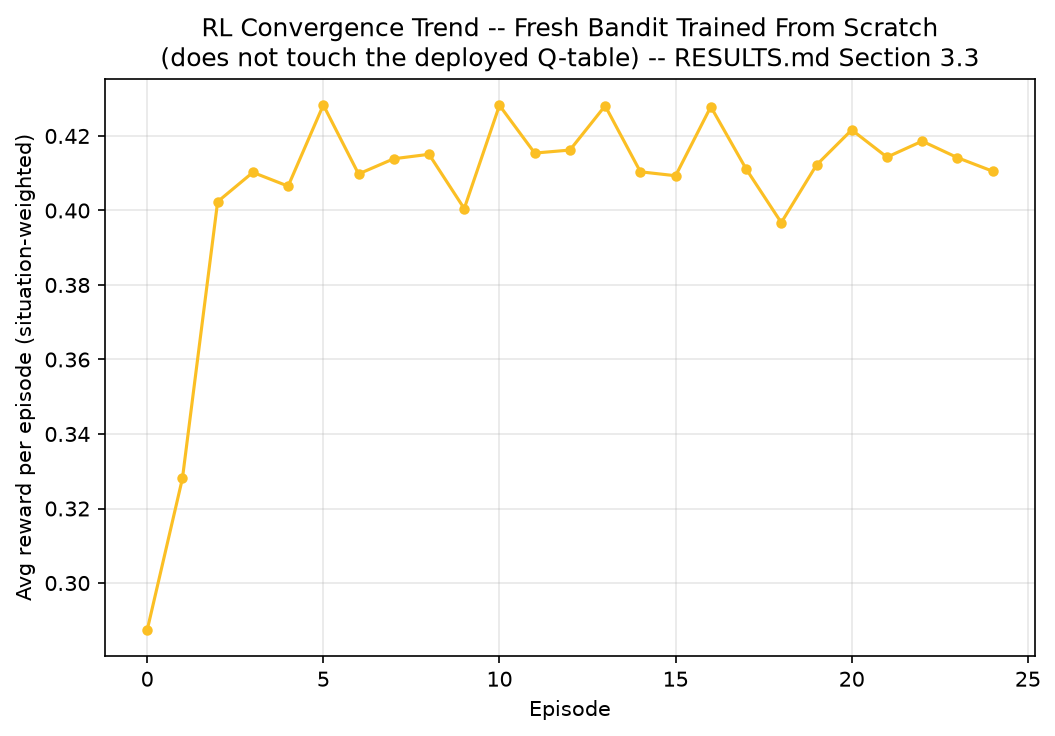
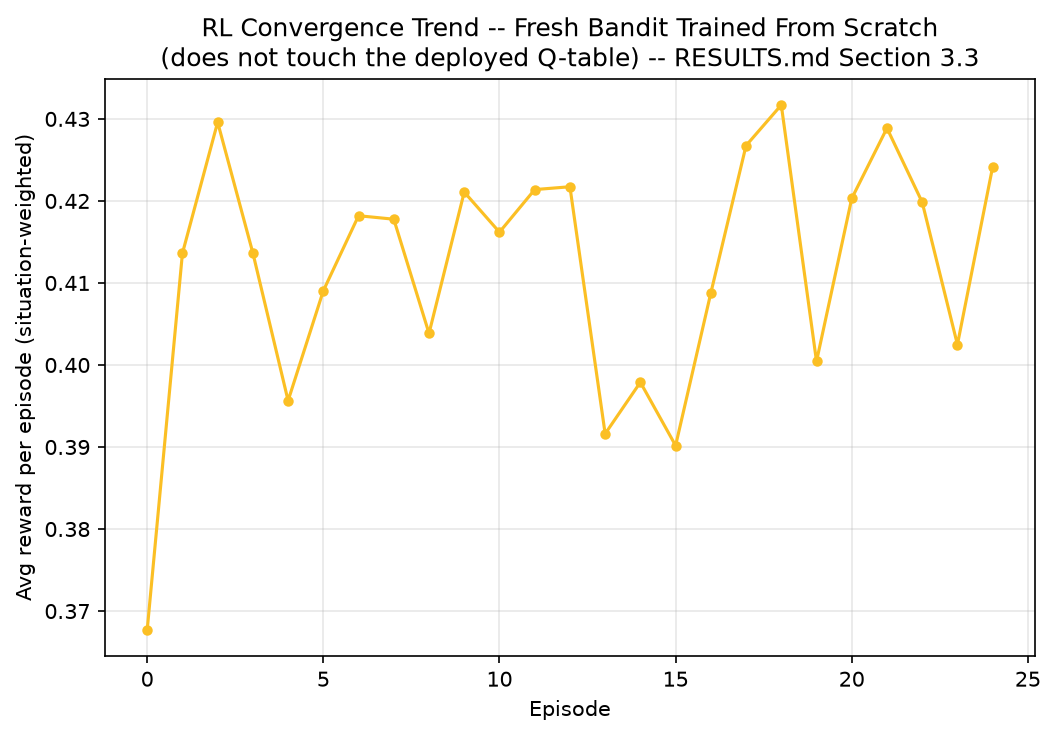
Sweep remaining docs for claims the code no longer matches
Finishes the documentation pass across the files not touched in the last
two commits. These were not cosmetic edits -- several described behaviour
that is now the opposite of what the code does, which is worse than no
comment at all for anyone reading next.

src/gateway.py's Module 9 block opened with "**Read this before assuming
every pixel on the page is live**" and then explained that the served file
is a 2.2MB flattened canvas export with hardcoded stale device names
(vibration-001, mpu6050-001) and only an injected overlay bar carrying
real data. Every part of that is now false: the page is fully live, the
export is deleted, and the overlay constant is gone. Rewritten to describe
what is actually served, keeping the history as history (it explains other
comments elsewhere) and adding the two things that are load-bearing if you
change this server -- the ThreadingHTTPServer is deliberate, and the read
caches are what keep /api/chain affordable as the audit log grows.

docs/04 gains AS-BUILT notes on the two sub-signals whose behaviour
changed. B.3 (Isolation Forest) previously said only "rescaled to [0,1]",
and how that rescaling is done turned out to be the single most
consequential detail in Module 3 -- the note records the measured failure
(a perfectly normal reading could score at most 0.621 against a 0.6
threshold), the two normal-class-only anchors that fix it, and that the
class separation was always fine so only the mapping was wrong. B.5 (GNN)
[…]

diff --git a/src/gateway.py b/src/gateway.py
@@ -447,21 +447,25 @@ def on_message(client, userdata, msg):
 # background-thread pattern coap_server.py's second transport already
 # uses (see start_dashboard_server() / run() below).
 #
-# **Read this before assuming every pixel on the page is live.** The
-# served file is a 2.2MB bundled EXPORT of a Claude Design canvas -- the
-# Design tool's own runtime/renderer bundled together with a flattened
-# snapshot of whatever the canvas showed at export time. The exported
-# bundle's device names are hardcoded, stale TEXT (`vibration-001`,
-# `mpu6050-001`), not live bindings -- they predate the current
-# `esp32-vib-001`/`sensor-002`/`actuator-001` hybrid device registry
-# entirely. There is no reactivity left to reconnect; the export
-# flattened it away. This code does NOT attempt to surgically patch
-# values inside the 2.2MB minified bundle (high risk of silently breaking
-# it). Instead it serves the real file byte-for-byte AS THE VISUAL SHELL,
-# and injects one clearly-labelled, genuinely-live overlay bar at the top
-# of the page, polling the real `/api/*` endpoints below. The overlay is
-# the authoritative live view; the canvas beneath it is the original
-# design artifact kept intact, not a live-updating element.
+# The page is FULLY LIVE. It renders itself from the /api/* endpoints below,
+# polling every 2s, so there is no injection step and no static shell: device
+# cards, decision stream, NIST coverage and its validation, IEC FR status, the
+# RL policy table and audit-chain integrity are all read from this gateway.
+#
+# It did not start that way, and the history matters if you are reading old
+# comments elsewhere: the served file used to be a 2.2MB flattened export of a
+# Claude Design canvas whose device names were hardcoded, stale text
+# (`vibration-001`, `mpu6050-001`) predating the current registry entirely, with
+# one genuinely-live overlay bar spliced in above it. That export has been
+# deleted and replaced outright by the hand-written live page; the canvas SOURCE
+# it was exported from survives in design/canvas.json and design/Main.dc.html.
+#
+# Two things worth knowing before changing this server:
+#   - It is a ThreadingHTTPServer, and that is load-bearing rather than
+#     incidental -- see start_dashboard_server() for the measured saturation
+#     failure a single-threaded one caused.
+#   - The read caches below are what keep /api/chain affordable; its cost grows
+#     with every logged decision, since it re-verifies the whole hash chain.
 # =============================================================================
 
 DASHBOARD_DESIGN_HTML_PATH = os.path.join(
@@ -726,8 +730,7 @@ class DashboardHandler(BaseHTTPRequestHandler):
     def _serve_figures_gallery(self) -> None:
         """Serves a small, self-contained HTML gallery of every PNG in
         docs/figures/ (scripts/generate_evaluation_graphs.py's output),
-        linked from the live overlay bar rather than spliced into the
-        canvas, for the same "don't touch the 2.2MB bundle" reason."""
+        linked from the dashboard header."""
         if not os.path.isdir(DASHBOARD_FIGURES_DIR):
             names = []
         else:

diff --git a/RESULTS.md b/RESULTS.md
@@ -258,7 +258,7 @@ log — not inferred from code review:
 | Hash chain detects a naive edit to an old audit row | Manually edited one row's `decision`, re-ran `verify_chain_integrity()` | **Confirmed** — `(False, <row id>)` |
 | Hash chain alone is fooled by a sophisticated edit (edit + recompute every subsequent hash) | Manually recomputed the whole chain after an edit | **Confirmed** (expected, documents the known limit) — `verify_chain_integrity()` incorrectly reports `(True, None)` |
 | The separate checkpoint catches the sophisticated edit the chain check misses | Compared the recomputed chain against the independently-stored checkpoint | **Confirmed** — mismatch correctly detected |
-| Live dashboard reads real data | `design/zero-trust-cps-command-center.html`, served with a live overlay by `gateway.py` itself (`gateway.py`'s Module 9 extension section, no separate script) | **Confirmed** — tested end to end against real hardware telemetry (Section 13): main page, all `/api/*` endpoints, and `/figures` gallery all verified working |
+| Live dashboard reads real data | `design/zero-trust-cps-command-center.html`, a single fully-live page served by `gateway.py` itself and polling its `/api/*` endpoints (`gateway.py`'s Module 9 extension section, no separate script) | **Confirmed** — tested end to end against real hardware telemetry (Section 13): main page, all `/api/*` endpoints, and `/figures` gallery all verified working |
 | A rate anomaly from a REAL physical device (not the simulator) triggers a real BLOCK | The real `esp32-vib-001` board itself, live | **Confirmed** — `rms=1.02 FLOOD \| security=0.49 \| process=0.40(FRESH) \| BLOCK` with `FLOOD detected (messages arriving faster than the minimum interval)`. Previously this exact response was only ever confirmed with `device_simulator.py`'s synthetic flood scenario (row above) — this is the first live confirmation against genuine hardware. Note this is a Security Trust (rate/timing) event, distinct from Section 13.2's still-pending Process Anomaly (physical fault) adversarial testing — the two domains stay separately evidenced on purpose. |
 | A real physical sensor fault (MPU6050 disconnected) is caught by the fusion pipeline even though the rule check alone misses it | Disconnected/reconnected the real MPU6050 while the board was running | **Confirmed, and a real gap found + fixed** — the disconnected sensor read back all-zero I2C bytes rather than erroring, publishing physically-impossible `rms=peak=crest_factor=kurtosis=0.0`; the rule check's old `(0.0, 3.0)` `rms` bound missed it, but replaying the exact reading through the live scorers gave `fused=0.008` (well below threshold) — the GNN/Isolation Forest caught what the rule check didn't, confirming the fusion design's defense-in-depth. `rms`'s lower bound raised to `0.1` anyway (Section 13.2), verified not to regress the synthetic baseline or reject any real session's data. |
 | A fully unpowered sensor (VCC removed) is correctly diagnosed and auto-recovered, not misdiagnosed as a network error | Removed the real MPU6050's VCC entirely, then reconnected it | **Confirmed, and a real firmware bug found + fixed + re-verified** — a fully unpowered sensor raises a real `OSError`/`ETIMEDOUT` from the I2C read (unlike the zero-byte case above); the firmware's single shared exception handler misdiagnosed this as a network problem, reconnecting MQTT (never broken) in an infinite loop that never addressed the real issue. Fixed with a separate I2C-specific handler that re-initializes the sensor and skips to the next cycle without touching MQTT. Re-verified live after the fix: 3 correctly-labelled `MPU6050 read failed` messages, then fully automatic recovery (same `boot_id`, no reset) — plus the first two post-recovery readings, still zero as the sensor stabilized, now correctly caught by the `rms≥0.1` rule bound from the fix above. |
@@ -1336,7 +1336,7 @@ actually implemented/explained and verified.
 | # | Limitation | Solvable? | Resolution |
 |---|---|---|---|
 | ~~1~~ | ~~Key rotation / device revocation not implemented~~ **RESOLVED — implemented** | — | `trust_engine.py` gained `revoke_device()`/`reinstate_device()`/`rotate_key()`/`is_revoked()`, operating directly on `DEVICE_REGISTRY` (additive fields: `status`, `key_version`, `secret_previous`, `key_rotated_at` — `config.py`). `gateway.py` rejects a revoked device unconditionally, BEFORE HMAC (`process_telemetry()`'s new `is_revoked()` check); `verify_signature()` tries the current key first, falling back to `secret_previous` only within `KEY_ROTATION_GRACE_SECONDS` of the last rotation. Verified end to end, not just unit-level: revoke→reject, reinstate→accept again, rotate→old key still verifies inside the grace window, wrong key never verifies, old key correctly stops verifying once the grace window is manually aged past (7 checks, all passed) — plus a live `process_telemetry()` call against a revoked device, confirmed logged as `REJECTED (device_revoked)`. |
-| ~~2~~ | ~~Level-2 (feature-level) explainability not implemented as a separate function~~ **RESOLVED — already implemented, table was stale** | — | `level2_explain()` is a real, dedicated function on every scorer (`gnn_scorer.py`, `isolation_forest_scorer.py`, `lstm_ae_scorer.py`, `transformer_scorer.py`), orchestrated by `src/explainability.py`, populated on every authenticated message, and surfaced live in the dashboard's second overlay bar — verified directly against real hardware telemetry this session (and one real bug in it, the GNN's fake neighbor attribution with no active neighbors, found and fixed; Section 13.0). |
+| ~~2~~ | ~~Level-2 (feature-level) explainability not implemented as a separate function~~ **RESOLVED — already implemented, table was stale** | — | `level2_explain()` is a real, dedicated function on every scorer (`gnn_scorer.py`, `isolation_forest_scorer.py`, `lstm_ae_scorer.py`, `transformer_scorer.py`), orchestrated by `src/explainability.py`, populated on every authenticated message, and surfaced live on the dashboard's device cards — verified directly against real hardware telemetry this session (and one real bug in it, the GNN's fake neighbor attribution with no active neighbors, found and fixed; Section 13.0). |
 | ~~3~~ | ~~Decision-channel replay~~ **RESOLVED — implemented** | — | Same `boot_id`/`seq` pattern telemetry replay already used, applied to the gateway's outgoing decisions: `gateway.py` persists its own incrementing `gateway_boot_id` (`data/gateway_boot_id.txt`, same pattern as the device's `boot_id.txt`) and a per-device `decision_seq` counter, both signed into every decision payload. `firmware/main.py`'s `check_decision_replay()` mirrors `check_boot_replay()`'s logic (strictly-higher boot_id always wins; same boot_id needs a strictly-higher seq). Canonical-string construction now reuses `canonical_json()` (the same generic builder telemetry uses) instead of a hand-rolled format string, specifically to avoid a repeat of the earlier telemetry canonicalisation risk — verified byte-for-byte identical to the gateway's `json.dumps(payload, sort_keys=True)` output, and the full HMAC signature verified to match end to end. |
 | 4 | **Stealthy compromised devices reporting plausible in-range forged values** | **Not solvable by a better model — architecturally capped** | If a forged value sits inside the learned-normal range, no telemetry-only detector can distinguish it from a real reading — confirmed directly, not just argued: Section 2.2's Transformer sub-signal, genuinely more capable and fairly evaluated, scores this scenario identically to the LSTM-AE (0.606/0.500/0.667 recall figures across Sections 2.1, 3.2, 11 — unmoved by architecture). The only real fixes are outside single-node ML: a second, independently-trusted sensor for cross-validation, or multi-device correlation (the GNN's multi-node mode, `docs/04_module3_trust_evaluation.md` Section B.5 — not yet meaningfully exercised with fewer than 3 physical devices). This project reports the honest, partial recall rather than a number tuned to look better, per Section 11. |
 | ~~5~~ | ~~Unexplained Process-score movement on `high_rate`~~ **RESOLVED — explained, not a real gap** | — | Root-caused, not fixed, because there was nothing live to fix: `scripts/diagnose_high_rate_leak.py` traced it to synthetic-generator scheduling (`anomalous_shock`/`tick%12==7` and `high_rate`/`tick%18==11` deterministically landing 4 messages apart, inside the LSTM's 8-message window) — the same window-residue effect Section 9 already documents elsewhere, not a live rate→process leak. Full trace in Section 7. |

diff --git a/docs/04_module3_trust_evaluation.md b/docs/04_module3_trust_evaluation.md
@@ -179,6 +179,33 @@ rule_based_score(features, expected_range: dict from device registry) -> float i
 - **Cold start:** until a device has enough baseline messages to train on (configurable minimum, e.g. 500 messages), this sub-signal returns a neutral `0.5` and is excluded from the fusion meta-learner's training data for that period — do not let an untrained model contribute noise to early scoring.
 - **Retraining:** retrain on a schedule (e.g., every 10,000 new messages, or nightly in hardware-time) using an expanding or sliding window of recent normal data, so the model can adapt to slow legitimate drift.
 
+> **AS-BUILT NOTE (scoring scale — this was a real defect, now fixed):**
+> the design line above says only "rescaled to `[0, 1]`", and *how* that
+> rescaling is done turned out to matter enormously. The as-built scale is
+> trust-style (**1 = normal**, the project-wide inversion flagged in
+> `docs/00_overview.md`), and the original mapping was simply
+> `decision_function() + 0.5`. That assumed `decision_function` spans
+> `[-0.5, 0.5]`. It does not: with `contamination=0.1` sklearn defines it so
+> exactly 10% of the *training* data falls below `0.0`, and its inlier side is
+> compressed into a narrow positive band — measured on this model, normal
+> median `+0.079` and best case `+0.121`. So the best score a **perfectly
+> normal** reading could receive was **0.621**, with the median normal at
+> **0.579** — both under `config.PROCESS_THRESHOLD` (0.6). The sub-signal was
+> structurally incapable of reporting "normal", and dragged the fused score
+> below threshold on healthy telemetry, including the real ESP32 at rest.
+>
+> The as-built mapping anchors on two points taken from the **normal class
+> only**, so training stays unsupervised (no anomalous example is consulted to
+> calibrate): `raw = 0 → 0.5` (sklearn's own inlier/outlier boundary, so the
+> model's decision boundary becomes the neutral midpoint) and
+> `raw = median(normal) → 0.9` (this codebase's "looks normal" convention).
+> Linear in between, clipped, and monotonic — it reorders nothing, it only
+> rescales a signal that had been squeezed into an unusable range. The anchor
+> is measured at training time and saved to
+> `models/isolation_forest_<device>_meta.json`. Class separation was always
+> excellent (`anomalous_shock` median `-0.353`); only the mapping was wrong.
+> See `RESULTS.md` §0.1.
+
 ### B.4 Sub-Signal 3 — LSTM-Autoencoder
 
 - **Library:** PyTorch.
@@ -196,6 +223,40 @@ rule_based_score(features, expected_range: dict from device registry) -> float i
 - **Fallback graph construction (single-node):** if only one device exists, build a graph from the six MPU6050 channels themselves — each channel is a node, edges represent expected correlation between channels (e.g., accel_x–accel_y, accel_z–gyro_z if the mounting orientation makes that physically meaningful), and node features are that channel's recent statistics. State explicitly in code comments that this is the weaker fallback case, not the target design.
 - **Library:** PyTorch Geometric. A small 2-layer GCN or GraphSAGE model is sufficient — this is not a case that needs a large model.
 - **The keep/drop decision:** after training, compare this sub-signal's contribution on the *validation* split against the three-signal combination (rule + Isolation Forest + LSTM-AE) using the ablation methodology in `10_testing_and_attack_simulation.md`. If it does not measurably improve F1-score or recall on the validation set, **do not include it in the live fusion meta-learner.** Record the comparison numbers regardless of outcome — a documented "we tried it, it did not help, here is the evidence" is a valid and expected result, not a failure.
+
+> **AS-BUILT NOTE (graph construction):** the as-built graph is the
+> multi-node device graph above (3 devices), not the single-node channel
+> fallback, and it is a hand-rolled GCN in plain PyTorch rather than PyTorch
+> Geometric — see `src/gnn_scorer.py` for why (compiled extensions are
+> version-locked and a common broken install, for identical math on a 3-node
+> graph). The keep/drop decision came out **keep**, decisively: the GNN is the
+> only sub-signal that detects the `coordinated` event type at all (recall
+> **1.000**, against 0.316 for Isolation Forest and 0.222 for the LSTM-AE,
+> which are structurally blind to cross-device co-occurrence).
+>
+> Two as-built corrections to the adjacency, both found by measurement:
+>
+> 1. **Self-loop weight.** With the textbook `A + I` and three active nodes,
+>    symmetric normalisation gives a node's own evidence only 1/3 of its
+>    representation, so *neighbours* dominated its verdict. One identical ESP32
+>    reading scored fused **0.020 / 0.057 / 0.577** depending only on how many
+>    unrelated devices happened to be publishing inside the edge window.
+>    `config.GNN_SELF_LOOP_WEIGHT = 3.0` (`A + 3I`) makes self-weight 0.6
+>    against 0.2 per neighbour, keeping the relational term the sub-signal
+>    exists for while letting a device's own physics decide the majority of its
+>    own verdict.
+> 2. **Isolated-topology training coverage.** A device publishing with no
+>    active neighbour is the *normal* single-device deployment, not an edge
+>    case. That topology originally appeared in training only as merged
+>    real-hardware rows, which are all labelled normal — so the model learned
+>    "no neighbours ⇒ normal" and saturated to **1.000** on a genuinely shaken
+>    board (`rms = 2.5`, IF `0.00`, LSTM `0.40`), masking a real anomaly.
+>    `scripts/train_gnn.py` now emits the isolated variant of every snapshot,
+>    covering that topology with the same class balance.
+>
+> `normalized_adjacency()` is shared by training and inference deliberately —
+> changing it without retraining silently invalidates the model. See
+> `RESULTS.md` §0.2.
 
 ### B.5b Sub-Signal 5 — Transformer (Ablation Candidate, Not in the Original Design)
 

diff --git a/docs/06_module5_access_control.md b/docs/06_module5_access_control.md
@@ -146,12 +146,32 @@ Epsilon-greedy bandit sketch:
   is a valid, useful finding.
 ```
 
+### Q-value estimator: incremental sample average, not a fixed learning rate
+
+`AdaptivePDP.update()` uses `α = 1/N` for the N-th visit to a given
+`(state, action)` pair — the textbook incremental sample average — rather than a
+fixed-α exponential moving average.
+
+This is not a stylistic choice. A single state bucket holds a **mixture** of
+ground-truth situations (the same `(security, process)` bucket is reached by
+genuinely normal messages and by attack messages alike), so `Q(s,a)` is
+estimating an *expectation over that mixture*, and the target is stationary. A
+fixed `α = 0.2` EMA tracks only the last ~5 visits, which leaves the stored
+value dominated by visit **order** rather than by the mixture's mean. Measured
+on the previously-trained table: every action in the high-security/high-process
+states sat within 0.4 of every other (state `9,8`: `BLOCK -0.3` vs
+`ALLOW -0.7`), so `argmax` was effectively arbitrary — and the deployed policy
+answered `BLOCK` for a device at security `0.91`, process `0.87`, where the
+static table correctly answers `ALLOW`. A sample average converges to the true
+expected reward, which is what a greedy `argmax` needs to mean anything. See
+`RESULTS.md` §0.3.
+
 ## 4.1 Failure Modes (RL Policy)
 
 | Scenario | Static table (Section 2) | RL policy (Section 4, live default) |
 |---|---|---|
 | Both scores exactly at a threshold/bucket boundary | Deterministic, always the same decision | Depends on the trained Q-values for that bucket — a decision may differ from the static table's for a borderline state; log these distinctly for evaluation since the RL policy is meant to have learned a genuinely different, better boundary here, not to be arbitrary |
-| A `(security_bucket, process_bucket)` state that was rare or absent in training | N/A | Q-values for that state are unreliable (few or no updates ever touched it) — `situation_weights()`'s inverse-frequency weighting (Section 4 above) mitigates but does not eliminate this; worth checking which states are sparsely covered before trusting the policy's behaviour there |
+| A `(security_bucket, process_bucket)` state that was rare or ABSENT in training | N/A | **Absent is safe, rare is the real risk — they are different cases.** For a state never visited at all, `AdaptivePDP._get_q()` SEEDS the state from the static 2×2 table (`policy_engine.decide()`), giving the static-correct action 1.0 and the rest 0.0, so `greedy_action()` returns exactly what the static policy would. It does not pick arbitrarily by dictionary order, and it does not fail open — verified: at `security 0.05–0.55` with `process 0.95` both policies return `STEP_UP`. The live dashboard's RL panel labels these rows `static fallback` and shows `--` rather than a misleading `0.00`. A state visited only a FEW times is the genuinely unreliable case, since its sample average is estimated from too few visits; `situation_weights()`'s inverse-frequency weighting mitigates but does not eliminate it, so check which states are sparsely covered before trusting behaviour there. |
 | Live reward signal | N/A | Not a live concern by construction — `greedy_action()` is the only method the live gateway calls, and it never updates online (Section 4 above) |
 
 ## 5. Interface Contract

diff --git a/docs/13_system_architecture_and_workflow.md b/docs/13_system_architecture_and_workflow.md
@@ -40,7 +40,7 @@ flowchart TB
     end
 
     subgraph L5["Layer 5 — Observability (Phase 9, merged into gateway.py)"]
-        V1["Live dashboard<br/>design/zero-trust-cps-command-center.html<br/>+ live overlay, :8600"]
+        V1["Live dashboard<br/>design/zero-trust-cps-command-center.html<br/>fully live, polls /api/*, :8600"]
     end
 
     D1 & D2 & D3 -->|signed telemetry| T1
@@ -83,7 +83,7 @@ MQTT, the HTTPS second transport, and the dashboard together
 | 5 — Access Control | Static 2x2 table, or RL bandit reading the same 2D state | `src/policy_engine.py`, `src/adaptive_pdp.py` |
 | 6 — Secure Communication | MQTT/TLS, HTTPS (CoAP-shaped) | `src/device_simulator.py`, `src/coap_server.py`, `firmware/main.py` |
 | 7 — Monitoring & Audit | Hash-chained log, governance tenet mapping | `src/audit_log.py`, `src/nist_mapping.py`, `src/iec62443_mapping.py` |
-| 9 — Observability (extension) | Live dashboard (`design/zero-trust-cps-command-center.html` + a real live-data overlay), served by `gateway.py` itself on a background thread, no separate script | `src/gateway.py` (Module 9 extension section), `src/audit_log.py`, `src/nist_mapping.py`, `src/iec62443_mapping.py` |
+| 9 — Observability (extension) | Live dashboard (`design/zero-trust-cps-command-center.html`, a single fully-live page that polls the `/api/*` endpoints itself), served by `gateway.py` on a background thread, no separate script | `src/gateway.py` (Module 9 extension section), `src/audit_log.py`, `src/nist_mapping.py`, `src/iec62443_mapping.py` |
 
 ---
 
@@ -238,9 +238,13 @@ flowchart LR
     CKPT -.->|independent tamper check| DASH
 ```
 
-`design/zero-trust-cps-command-center.html` is served by DASH above with
-a live-data overlay spliced in (not a separate script — merged into
-`gateway.py` directly; `SESSION_LOG.md` §29/§30).
+`design/zero-trust-cps-command-center.html` is served by DASH above as a
+single fully-live page that polls the `/api/*` endpoints itself (not a
+separate script — merged into `gateway.py` directly; `SESSION_LOG.md`
+§29/§30). There is no overlay-injection step any more: the earlier 2.2MB
+flattened canvas export it used to be spliced into has been deleted, and
+the canvas *source* survives in `design/canvas.json` /
+`design/Main.dc.html` if it ever needs regenerating.
 
 **Why `firmware/main.py` and `device_simulator.py` are drawn as
 alternatives, not both-always-on**: both publish under the SAME
@@ -306,7 +310,7 @@ zt-cps-starter/
 ├── certs/                        <- self-signed CA + TLS certs + mosquitto ACLs
 ├── data/collected/                <- training_session.json / test_session.json (generated)
 ├── models/                        <- every scripts/train_*.py's output (read-only at runtime)
-├── design/                        <- Claude Design canvas export + live overlay target
+├── design/                        <- live dashboard page (+ the canvas source it came from)
 ├── docs/                          <- this 14-file design/reference set + docs/figures/
 ├── src/                           <- see Section 2's module table above
 └── scripts/

diff --git a/docs/08_module7_monitoring_and_audit.md b/docs/08_module7_monitoring_and_audit.md
@@ -20,7 +20,7 @@
 > `identity_targeting_count_60s` alongside the legacy `trust_score` column
 > (kept as an alias of `security_trust_score` for backward compatibility).
 > The live dashboard (`design/zero-trust-cps-command-center.html`, served
-> with a live overlay by `gateway.py` itself — see `gateway.py`'s Module 9
+> live by `gateway.py` itself — see `gateway.py`'s Module 9
 > extension section, `SESSION_LOG.md` §29/§30) shows the chain-verified
 > indicator and the two independent score lines Section 4 below asks for.
 > A Streamlit dashboard (`dashboard.py`) was found during real-hardware

diff --git a/docs/12_model_validation_and_justification.md b/docs/12_model_validation_and_justification.md
@@ -41,7 +41,7 @@ stated once:
    project's own history (`SESSION_LOG.md`) contains multiple cases where
    a measured result came back worse than hoped (the Transformer's tie
    with the LSTM-AE before the residue-exclusion fix; the Level-2
-   explainability validation's 36% vs. a 70% target) and the response was
+   explainability validation's 39% vs. a 70% target) and the response was
    to report the number and explain it, not adjust the target or hide the
    run. That standard applies to every model in this file.
 4. **Synthetic data, honestly labeled as such.** Every number in this

diff --git a/docs/00_overview.md b/docs/00_overview.md
@@ -54,7 +54,7 @@
 >    the real-data retraining results. **The dashboard is now served by
 >    `gateway.py` itself, not a separate script** — `webapp_server.py` was
 >    first removed entirely (on explicit user instruction), then its live-
->    overlay/`/api/*`/`/figures`-gallery logic was merged directly into
+>    `/api/*`/`/figures`-gallery logic was merged directly into
 >    `gateway.py` (its Module 9 extension section,
 >    `start_dashboard_server()`, same background-thread pattern
 >    `coap_server.py`'s second transport already used) once the user asked
